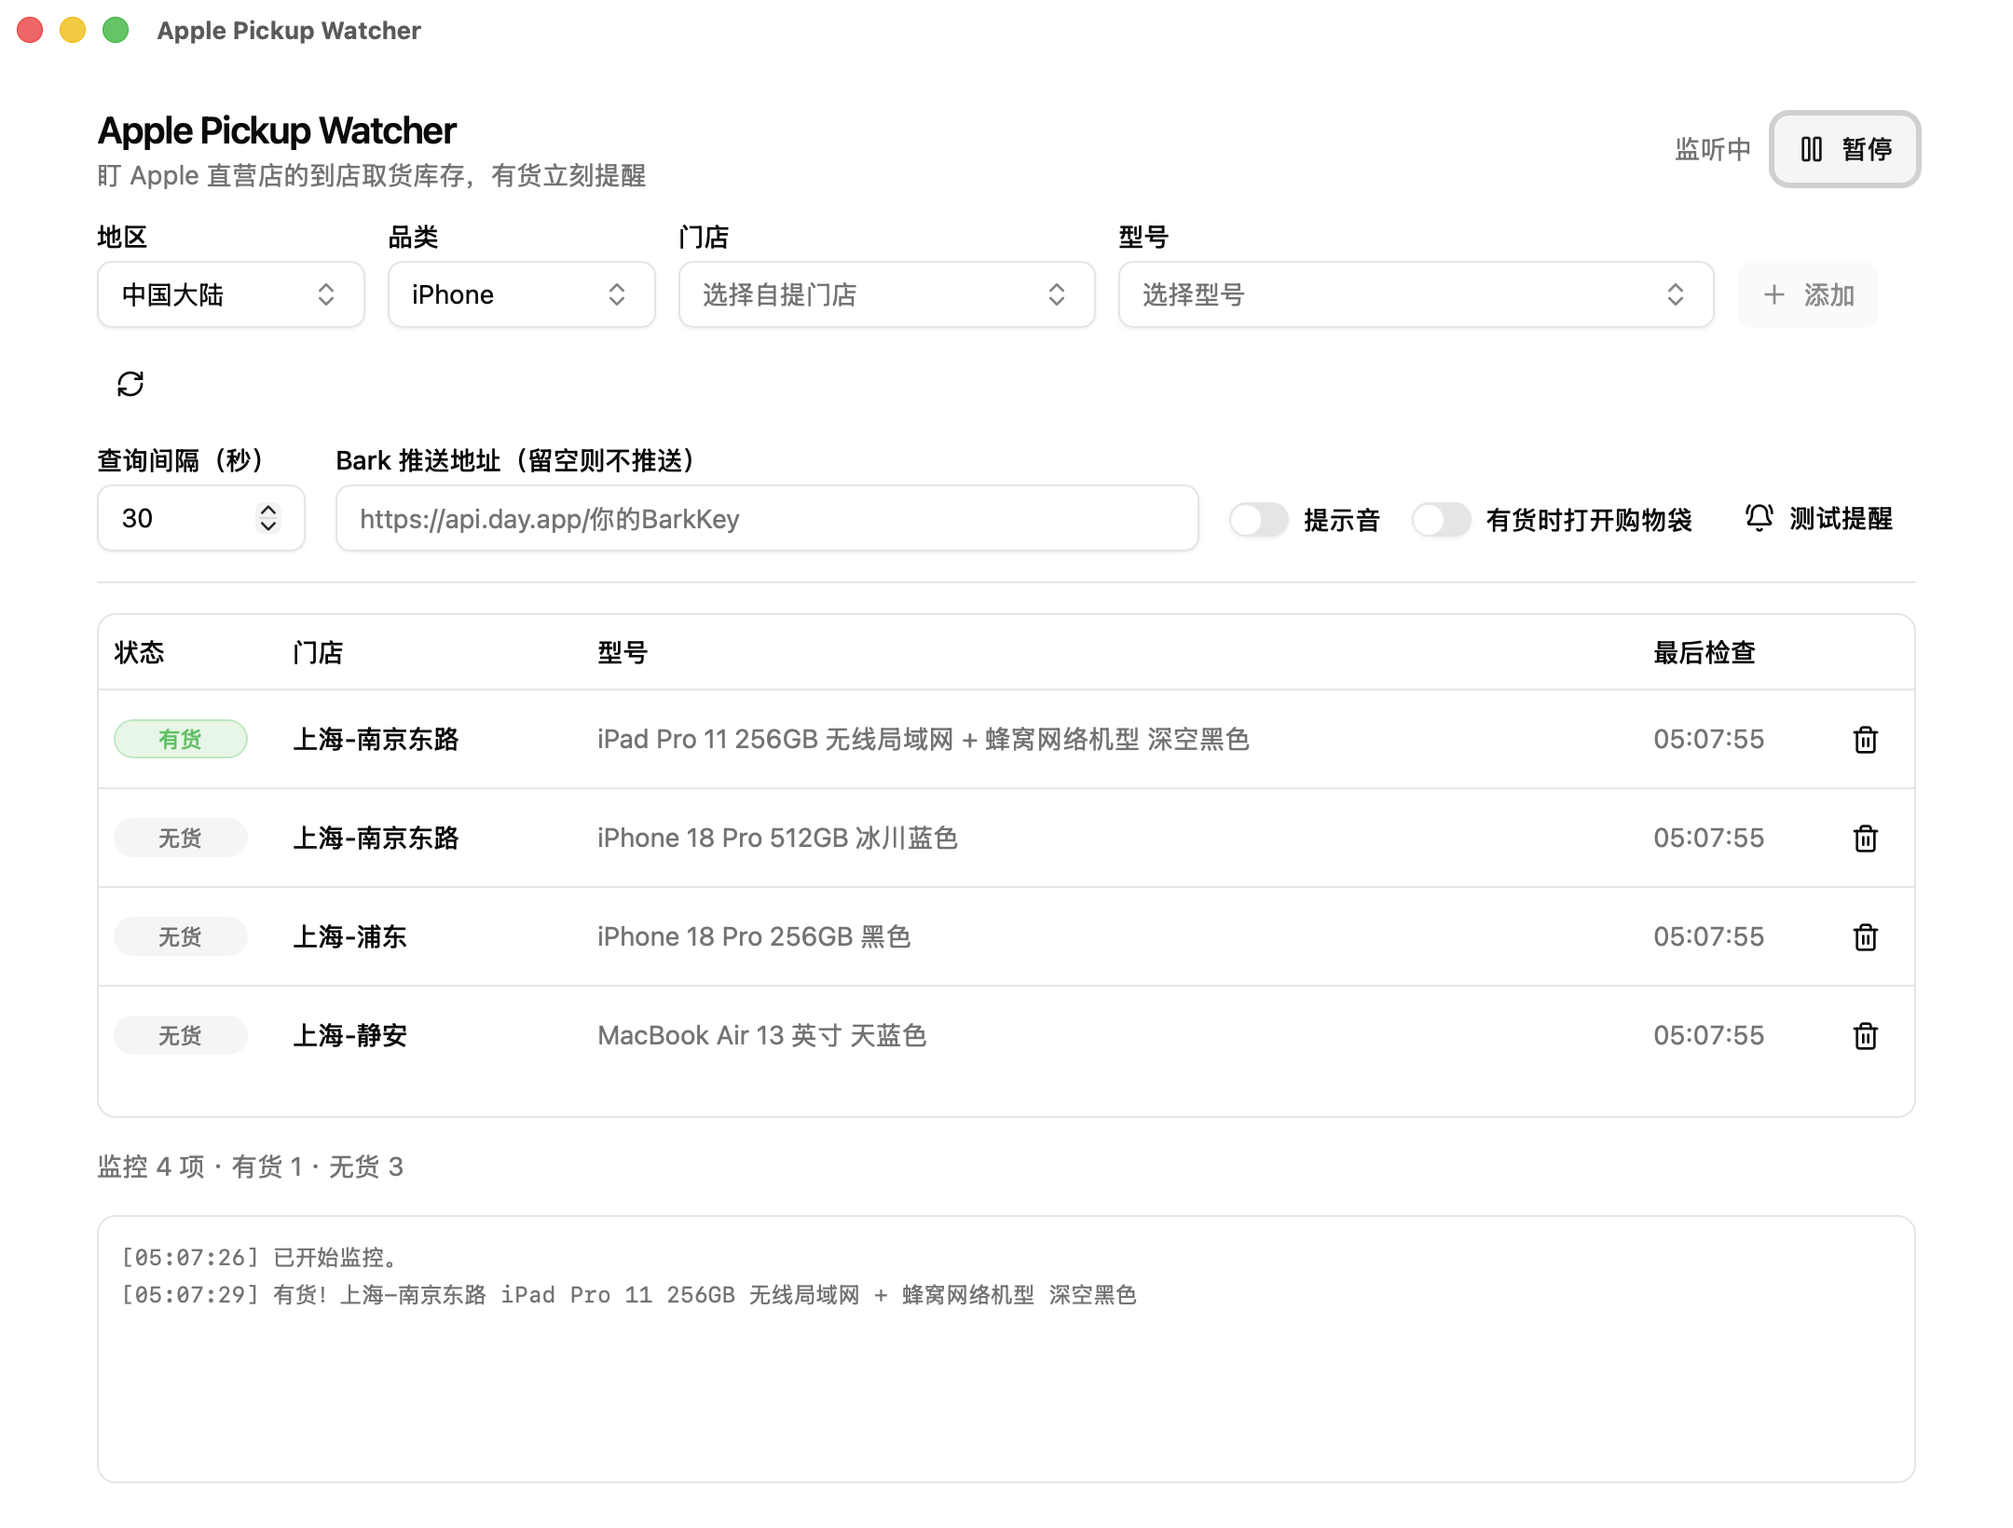
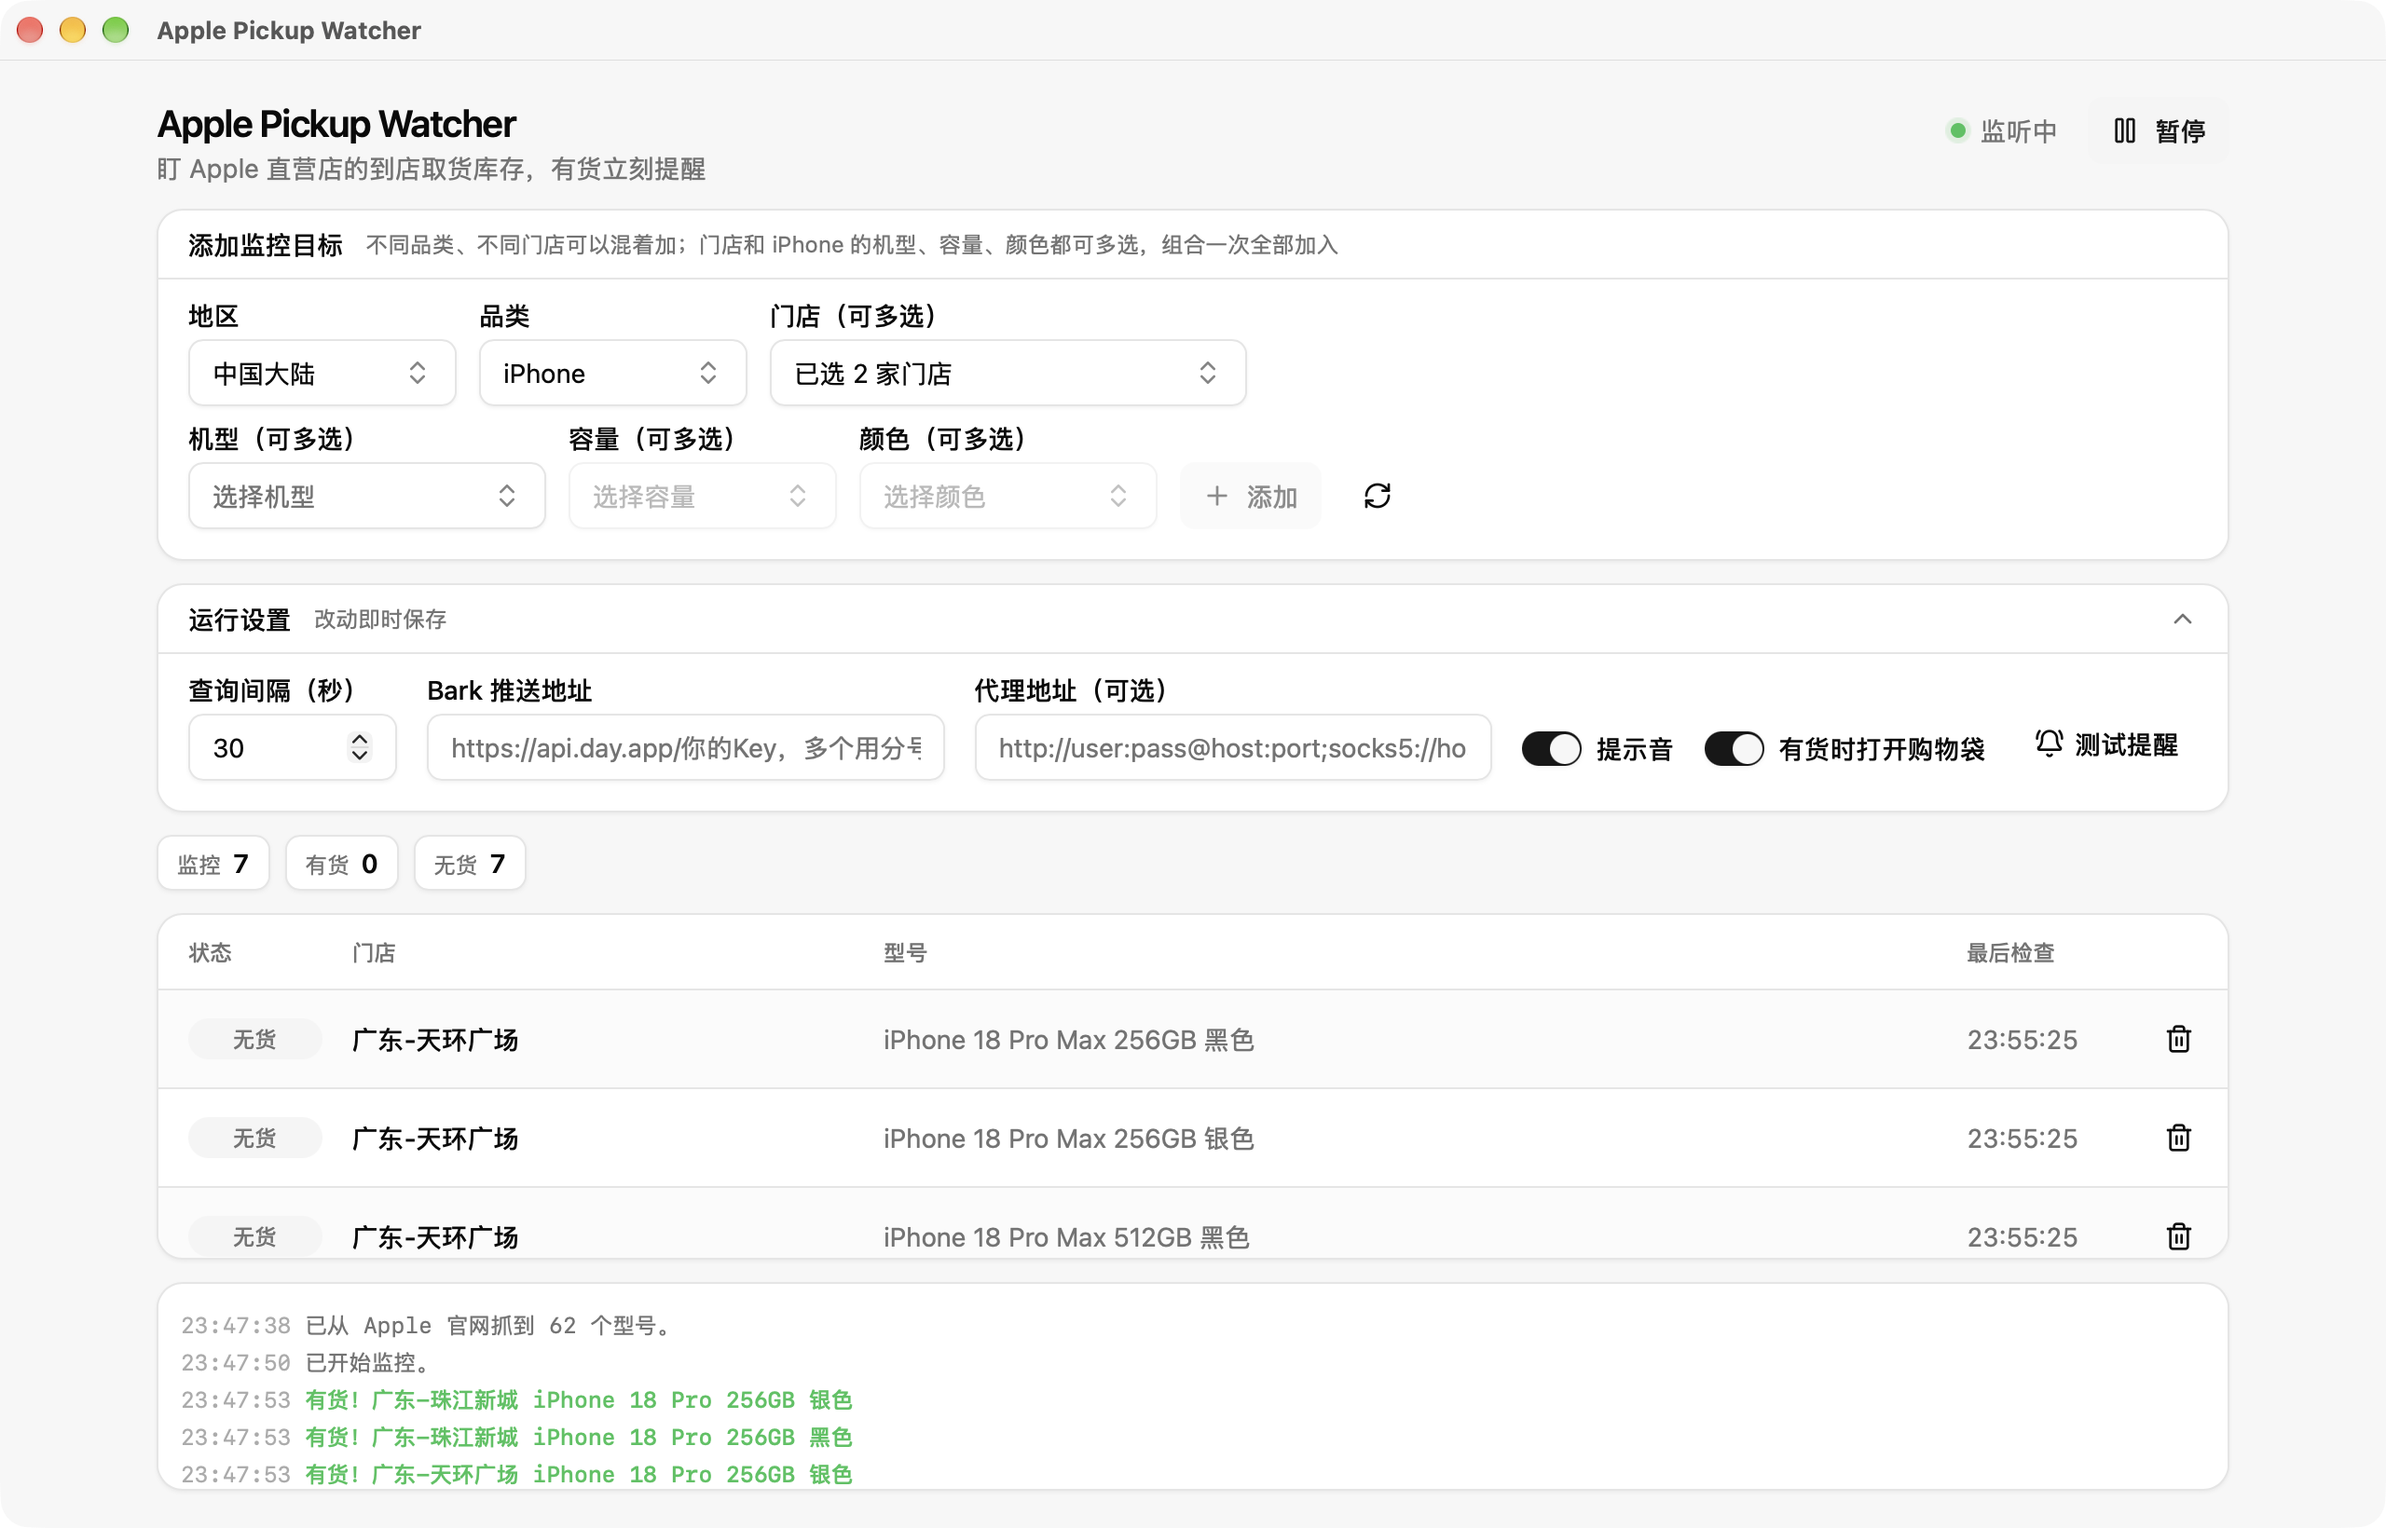
发版后续：CLI 包由 CI 传到 Release，README 换新界面截图，禁用整页回弹 (#46)
* CLI 工作流可按标签构建并把四个平台的包直接传到 Release

artifacts 存在 *.blob.core.windows.net，维护者的网络连不上，v0.5.0 发版时
本机 gh run download 全部失败，CLI 包没能附上。改成手动触发时填 release_tag，
由 runner 按该标签构建后上传；写权限只给上传那一个 job。

* README 主截图换成 v0.5.0 的真实界面；整页不再能被拖出回弹

- assets/screenshot.png：真实应用、真实查询结果下重拍（分区卡片、统计、日志）
- README 与桌面版指南：限流提示的位置从「界面底部」改为「监控列表上方」
- html/body 加 overscroll-behavior: none，WebView 里整页不再有网页式的橡皮筋回弹

---------

diff --git a/src/index.css b/src/index.css
@@ -89,6 +89,13 @@
   * {
     @apply border-border outline-ring/50;
   }
+  html,
+  body {
+    /* 整页不该能被拖出回弹：WebView 默认和网页一样有橡皮筋效果，触控板一划，
+       整个界面连标题带表格一起被拽下来再弹回去，一眼就露了「这是个网页」的底。
+       列表和日志各自的滚动不受影响。 */
+    overscroll-behavior: none;
+  }
   body {
     @apply bg-background text-foreground;
     /* 桌面应用不该能选中界面文字，那是网页的行为。日志区单独放开。 */

diff --git a/docs/desktop.md b/docs/desktop.md
@@ -67,7 +67,7 @@ https://api.day.app/你的Key?group=库存&sound=alarm
 从 v0.4.2 起程序这样应对：
 
 - **同城门店合并成一次请求**：同一地区、同一地点的门店按地点一次查询，Apple 一次响应带回周边所有门店。盯 6 家港店从每轮 6 次请求变成 1 次。
-- **请求预算**：程序按令牌桶记账（容量 20、每分钟恢复 1 次）。桶空了就把下一轮推迟到额度够为止，界面底部会显示「受 Apple 频率限制，下一轮 N 秒后」，日志里记一条。你设的间隔仍是下限；盯的城市越多，实际间隔越长（每个城市每轮 1 次请求）。
+- **请求预算**：程序按令牌桶记账（容量 20、每分钟恢复 1 次）。桶空了就把下一轮推迟到额度够为止，监控列表上方会显示「受 Apple 频率限制，下一轮 N 秒后」，日志里记一条。你设的间隔仍是下限；盯的城市越多，实际间隔越长（每个城市每轮 1 次请求）。
 - **被拦后冷却**：首次 5 分钟，冷却结束后只发一次探测，只有探测再被拦才延长到 10、20、30 分钟；期间该地区所有目标显示「未知」并注明剩余时间。同一轮里其他门店跟着被拦算同一次，不升档。
 
 启动时的暖场（先取一次购物袋页攒会话 cookie）同一地区只做一次；请求特征与 Chrome 149 一致，TLS 握手与 HTTP/2 设置也复刻 Chrome 149（BoringSSL）。这些不是 541 的原因，但保留下来没有坏处。

diff --git a/docs/development.md b/docs/development.md
@@ -74,6 +74,6 @@ python3 crates/apw-core/data/generate.py
 
 桌面更新签名使用 `TAURI_SIGNING_PRIVATE_KEY` 和 `TAURI_SIGNING_PRIVATE_KEY_PASSWORD` 两个仓库 Secret。缺少密钥时工作流按配置输出未签名安装包；应用内更新需要与内嵌公钥匹配的签名。私钥应离线备份，不提交到仓库。
 
-[CLI 工作流](../.github/workflows/cli.yml) 独立构建 macOS Apple Silicon / Intel、Windows x64 和 Linux x86_64，上传包含 CLI、skill、文档、许可及校验和的 Actions artifacts。它不自动创建公开 Release。
+[CLI 工作流](../.github/workflows/cli.yml) 独立构建 macOS Apple Silicon / Intel、Windows x64 和 Linux x86_64，上传包含 CLI、skill、文档、许可及校验和的 Actions artifacts。它不自动创建公开 Release。发版时在 Release 草稿就绪后手动触发一次并填 `release_tag`（`gh workflow run cli.yml -f release_tag=v0.5.0`），工作流会按该标签的代码构建，并把四个平台的包和校验和传到对应的 Release 上；artifacts 所在的 `*.blob.core.windows.net` 在不少网络下连不上，不要指望在本机下载后再上传。
 
 发布后的版本分支由 [Release branches 工作流](../.github/workflows/release-branches.yml) 维护。站点部署与桌面发布彼此独立。
